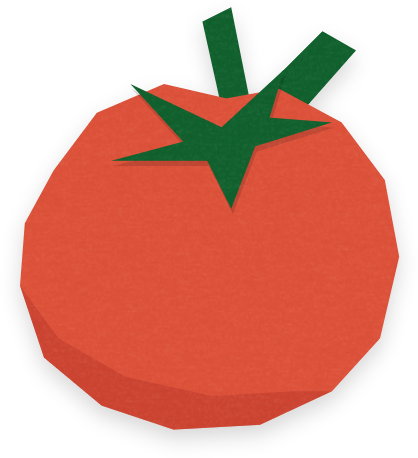
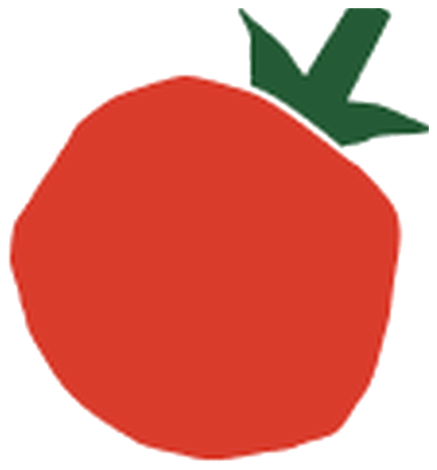
feat(site): 오너 피드백 5건 반영 — OK단단체 워드마크, 히어로 점선 제거, 아이콘 토마토, 종이컷 칩, 런칭 기준 문구
- 워드마크: 브러시 이미지(amE_138r…png 삭제) 대신 OK단단체 텍스트 `.logo-text`(2rem, 푸터 2.5rem, ink).
  앱 헤더 `MainView.wordmark`(Text("Reffi").reffiType(.display))와 같은 처리. resources 14→13장
- 히어로: 무더기 아래 점선 `.counter-line`(마크업·CSS) 제거
- 토마토: 빌드 27 글리프(별 꽃받침·줄기 2개, 오너 "이상해")를 앱 아이콘 reffi-icon-1024의 토마토로 교체.
  흰 종이 배경에서 최소 채널 기반 알파 + 언믹싱으로 분리, 437×470 투명 PNG(파일명 9zmerpH2… 유지)
- 칩(.tab): 점선 테두리·4px 라운드 → 버튼과 같은 종이컷 8각(--cut 9px, --j 1px). 외곽선 칩은
  요소=테두리 잉크, ::before(inset 1px, cut-0.6px)=종이 채움. 짝수 칩은 seed-b 지터. 색 칩(Fresh/Soon/Urgent)은
  단색 8각 + 안쪽 흰 헤어라인. 원래 CSS 테두리는 clip-path에 잘려 이 2층 구조가 필요함
- 문구: 런칭 기준. "An iPhone beta is in development." → "Free on the App Store for iPhone.",
  주 CTA 2곳 "Download on the App Store"(data-store-link, href는 URL 확정 전 자리표시자 #),
  "See how Reffi works"는 보조 링크(.link-secondary), "Public beta link coming soon." 삭제,
  FAQ Is it free?/Do I need an account? 런칭·계정 없음 기준으로 수정
- README: 구성(13장·텍스트 워드마크·아이콘 토마토 출처)과 문구 규칙(베타 금지, App Store URL 교체 지점) 갱신
- 인라인 스크립트 무변경으로 CSP 해시 동일

diff --git a/site/index.html b/site/index.html
@@ -78,7 +78,16 @@
             transition: opacity 0.2s ease, transform 0.2s ease;
         }
 
-        .beta-status { flex-basis: 100%; margin: 0; font-size: .95rem; }
+        .link-secondary {
+            align-self: center;
+            font-weight: 500;
+            color: var(--c-cocoa);
+            text-decoration: underline;
+            text-decoration-style: dashed;
+            text-decoration-color: rgba(37,33,27,0.4);
+            text-underline-offset: 5px;
+        }
+        .link-secondary:hover { text-decoration-color: var(--c-cocoa); }
         a:focus-visible { outline: 3px solid var(--c-blue); outline-offset: 5px; }
 
         /* Typography */
@@ -353,7 +362,9 @@
             .app-motion img { animation: none; } 
         }
 
-        /* Tabs & Chips */
+        /* Tabs & Chips — the same paper-cut octagon as the buttons (§13.1), scaled to chip height.
+           Outline chips: the element itself is the edge ink and ::before is the paper fill inset 1px,
+           so the hairline follows the cut corners (a CSS border would be clipped away). */
         .tabs {
             display: flex;
             gap: 0.5rem;
@@ -362,19 +373,91 @@
         }
 
         .tab {
-            background-color: var(--c-cream);
-            border: 1px dashed rgba(37,33,27,0.3);
-            padding: 0.25rem 0.875rem;
-            border-radius: 4px;
+            --cut: 9px;
+            --j: 1px;
+            --edge: rgba(37,33,27,0.35);
+            --fill: var(--c-cream);
+            position: relative;
+            isolation: isolate;
+            background-color: var(--edge);
+            border: 0;
+            border-radius: 0;
+            box-shadow: none;
+            padding: 0.3rem 0.9rem;
             font-size: 0.85rem;
             font-weight: 500;
             color: var(--c-cocoa);
-            box-shadow: 0 2px 4px rgba(37,33,27,0.05);
+            clip-path: polygon(
+                calc(var(--cut) + 0.6 * var(--j)) 0,
+                calc(100% - var(--cut) - 0.5 * var(--j)) calc(0.5 * var(--j)),
+                100% calc(var(--cut) - 0.6 * var(--j)),
+                calc(100% - 0.4 * var(--j)) calc(100% - var(--cut) + 0.4 * var(--j)),
+                calc(100% - var(--cut) + 0.5 * var(--j)) calc(100% - 0.5 * var(--j)),
+                calc(var(--cut) - 0.6 * var(--j)) 100%,
+                calc(0.4 * var(--j)) calc(100% - var(--cut) - 0.5 * var(--j)),
+                0 calc(var(--cut) + 0.7 * var(--j))
+            );
         }
 
-        .tab-fresh { background-color: var(--c-sage); border-color: transparent; }
-        .tab-soon { background-color: var(--c-amber); border-color: transparent; }
-        .tab-urgent { background-color: var(--c-terracotta); border-color: transparent; }
+        .tab::before {
+            content: "";
+            position: absolute;
+            inset: 1px;
+            z-index: -1;
+            --cut-in: calc(var(--cut) - 0.6px);
+            background-color: var(--fill);
+            clip-path: polygon(
+                calc(var(--cut-in) + 0.6 * var(--j)) 0,
+                calc(100% - var(--cut-in) - 0.5 * var(--j)) calc(0.5 * var(--j)),
+                100% calc(var(--cut-in) - 0.6 * var(--j)),
+                calc(100% - 0.4 * var(--j)) calc(100% - var(--cut-in) + 0.4 * var(--j)),
+                calc(100% - var(--cut-in) + 0.5 * var(--j)) calc(100% - 0.5 * var(--j)),
+                calc(var(--cut-in) - 0.6 * var(--j)) 100%,
+                calc(0.4 * var(--j)) calc(100% - var(--cut-in) - 0.5 * var(--j)),
+                0 calc(var(--cut-in) + 0.7 * var(--j))
+            );
+        }
+
+        /* every second chip uses the shifted jitter table so neighbours are not identical cut-outs */
+        .tabs .tab:nth-child(2n) {
+            clip-path: polygon(
+                calc(var(--cut) - 0.5 * var(--j)) calc(0.5 * var(--j)),
+                calc(100% - var(--cut) + 0.6 * var(--j)) 0,
+                calc(100% - 0.4 * var(--j)) calc(var(--cut) + 0.4 * var(--j)),
+                100% calc(100% - var(--cut) - 0.6 * var(--j)),
+                calc(100% - var(--cut) - 0.6 * var(--j)) 100%,
+                calc(var(--cut) + 0.4 * var(--j)) calc(100% - 0.5 * var(--j)),
+                0 calc(100% - var(--cut) + 0.6 * var(--j)),
+                calc(0.5 * var(--j)) calc(var(--cut) - 0.4 * var(--j))
+            );
+        }
+
+        .tabs .tab:nth-child(2n)::before {
+            clip-path: polygon(
+                calc(var(--cut-in) - 0.5 * var(--j)) calc(0.5 * var(--j)),
+                calc(100% - var(--cut-in) + 0.6 * var(--j)) 0,
+                calc(100% - 0.4 * var(--j)) calc(var(--cut-in) + 0.4 * var(--j)),
+                100% calc(100% - var(--cut-in) - 0.6 * var(--j)),
+                calc(100% - var(--cut-in) - 0.6 * var(--j)) 100%,
+                calc(var(--cut-in) + 0.4 * var(--j)) calc(100% - 0.5 * var(--j)),
+                0 calc(100% - var(--cut-in) + 0.6 * var(--j)),
+                calc(0.5 * var(--j)) calc(var(--cut-in) - 0.4 * var(--j))
+            );
+        }
+
+        .tab-fresh { --edge: var(--c-sage); --fill: var(--c-sage); }
+        .tab-soon { --edge: var(--c-amber); --fill: var(--c-amber); }
+        .tab-urgent { --edge: var(--c-terracotta); --fill: var(--c-terracotta); }
+
+        /* filled chips get the same inner white hairline as filled buttons (§13.1 paperEdgeOnFill) */
+        .tab-fresh::after, .tab-soon::after, .tab-urgent::after {
+            content: "";
+            position: absolute;
+            inset: 0;
+            clip-path: inherit;
+            box-shadow: inset 0 0 0 1px rgba(255, 255, 255, 0.35);
+            pointer-events: none;
+        }
 
         /* Decorative Background Ingredients */
         .bg-deco {
@@ -457,10 +540,15 @@
             width: 100%;
         }
 
-        .logo-img {
-            height: 36px;
-            width: auto;
-            object-fit: contain;
+        /* Wordmark is live text in OK단단체, like the app header (MainView.wordmark: .display, ink). */
+        .logo-text {
+            font-family: var(--font-title);
+            font-weight: 400;
+            font-size: 2rem;
+            line-height: 1;
+            letter-spacing: -0.02em;
+            color: var(--c-cocoa);
+            display: inline-block;
         }
 
         .nav {
@@ -561,15 +649,6 @@
             width: 100%;
             height: 100%;
             opacity: 1;
-        }
-
-        .counter-line {
-            position: absolute;
-            bottom: 26px;
-            left: 2rem;
-            right: 2rem;
-            height: 1px;
-            border-top: 2px dashed rgba(37, 33, 27, 0.1);
         }
 
         /* Pieces are positioned by the physics script (translate + rotate from the piece centre). */
@@ -811,8 +890,9 @@
             position: relative;
         }
 
-        .footer .logo-img {
-            height: 50px;
+        .footer .logo-text {
+            font-size: 2.5rem;
+            display: block;
             margin-bottom: 1rem;
         }
 
@@ -842,7 +922,7 @@
     <header class="header">
         <div class="container">
             <a href="#top" class="logo-link" aria-label="Reffi Home">
-                <img src="resources/amE_138rZ2C58vVnuHm4PX.png" alt="Reffi Logo" class="logo-img">
+                <span class="logo-text">Reffi</span>
             </a>
             <nav class="nav">
                 <div class="nav-links">
@@ -862,18 +942,17 @@
                     <div class="hero-content">
                         <span class="eyebrow">IPHONE APP FOR YOUR FRIDGE</span>
                         <h1 class="hero-title">Eat it today,<br>waste nothing.</h1>
-                        <p class="subline">An iPhone beta is in development.</p>
+                        <p class="subline">Free on the App Store for iPhone.</p>
                         <p>Reffi turns your grocery receipt into a fridge that counts down. When something is about to turn, it hands you recipe tickets that use it first.</p>
                         <div class="hero-actions">
-                            <a href="#how-it-works" class="btn-primary">See how Reffi works</a>
-                            <p class="beta-status">Public beta link coming soon.</p>
+                            <a href="#" class="btn-primary" data-store-link>Download on the App Store</a>
+                            <a href="#how-it-works" class="link-secondary">See how Reffi works</a>
                         </div>
                     </div>
                     
                     <div class="hero-visual">
                         <div class="hero-stage" id="hero-stage">
                             <div class="pile-wrapper">
-                                <div class="counter-line"></div>
                                 <img src="resources/9zmerpH2zUScmto_Orokgj.png" class="food-piece" data-w="156" alt="Tomato">
                                 <img src="resources/aDPBmEky3-u3BYiUjT__Q6.png" class="food-piece" data-w="150" alt="Mushroom">
                                 <img src="resources/8I3fBUc04FwcLg-5J8HOHp.png" class="food-piece" data-w="148" alt="Broccoli">
@@ -1117,11 +1196,11 @@
                     </div>
                     <div class="faq-item">
                         <h3 class="faq-q">Is it free?</h3>
-                        <p>The beta is free. The public TestFlight link will be added here when it is available.</p>
+                        <p>Yes. Reffi is free on the App Store, and there is nothing to sign up for.</p>
                     </div>
                     <div class="faq-item">
                         <h3 class="faq-q">Do I need an account?</h3>
-                        <p>No, guest mode works without one.</p>
+                        <p>No. Reffi works without an account, and your fridge stays on your phone.</p>
                     </div>
                     <div class="faq-item">
                         <h3 class="faq-q">Where do the recipes come from?</h3>
@@ -1138,11 +1217,11 @@
                 <div class="receipt-wrapper">
                     <div class="receipt-inner zigzag-edges text-center">
                         <h2 class="cta-title">Start with the fridge you already have.</h2>
-                        <p>See how Reffi helps you cook what is about to turn.</p>
+                        <p>Download Reffi and cook what is about to turn, first.</p>
                         
                         <div class="cta-actions">
-                            <a href="#how-it-works" class="btn-primary seed-b">See how Reffi works</a>
-                            <p class="beta-status">Public beta link coming soon.</p>
+                            <a href="#" class="btn-primary seed-b" data-store-link>Download on the App Store</a>
+                            <a href="#how-it-works" class="link-secondary">See how Reffi works</a>
                         </div>
                     </div>
                 </div>
@@ -1154,7 +1233,7 @@
     <footer class="footer">
         <div class="container">
             <img src="resources/ar_c5-vEmw1f1ra_0GbOAC.png" class="bg-deco deco-inner right" style="top: 0; transform: rotate(-5deg);" alt="" aria-hidden="true">
-            <img src="resources/amE_138rZ2C58vVnuHm4PX.png" alt="Reffi Logo" class="logo-img" style="margin: 0 auto 1rem;">
+            <span class="logo-text">Reffi</span>
             <p class="subline" style="margin-bottom: 0;">Eat it today, waste nothing.</p>
             
             <div class="footer-links">

diff --git a/site/README.md b/site/README.md
@@ -1,13 +1,13 @@
 # Reffi 소개 사이트 (정적)
 
-Google Labs Pomelli로 만든 앱 소개 페이지의 정적 내보내기입니다. `index.html` 한 장과 `resources/` 이미지 14장, 루트의 `favicon.ico`(16·32·48, iOS식 둥근 모서리)와 `apple-touch-icon.png`(180, 정사각)로 구성되며, 두 아이콘은 앱의 `AppIcon.appiconset/reffi-icon-1024.png`에서 생성했습니다. 외부 의존은 폰트 서버 두 곳(Google Fonts의 Google Sans Flex, jsDelivr의 OK단단체)만 있습니다. 자세한 내용은 아래 "제3자 접속처와 라이선스"를 참고합니다. 스크립트는 히어로 낙하 애니메이션용 인라인 코드 하나뿐이고, 추적·분석 코드는 없습니다.
+Google Labs Pomelli로 만든 앱 소개 페이지의 정적 내보내기입니다. `index.html` 한 장과 `resources/` 이미지 13장, 루트의 `favicon.ico`(16·32·48, iOS식 둥근 모서리)와 `apple-touch-icon.png`(180, 정사각)로 구성되며, 두 아이콘은 앱의 `AppIcon.appiconset/reffi-icon-1024.png`에서 생성했습니다. 외부 의존은 폰트 서버 두 곳(Google Fonts의 Google Sans Flex, jsDelivr의 OK단단체)만 있습니다. 자세한 내용은 아래 "제3자 접속처와 라이선스"를 참고합니다. 스크립트는 히어로 낙하 애니메이션용 인라인 코드 하나뿐이고, 추적·분석 코드는 없습니다.
 
 - 원본 편집: Pomelli 웹사이트 에디터(버전 V15 기준). Pomelli에서 수정하면 이 폴더를 다시 내보내야 합니다.
-- 이미지: `resources/<id>.png`는 앱에서 뽑은 재료 글리프 8종(투명 PNG, 여백 트림, 긴 변 480px 이하), 워드마크, 화면 스프라이트 시트 5장(4×3, 12프레임, 1208×1968)입니다. 현재 아트워크는 main `acfbff1`(빌드 27) 기준입니다. 글리프는 `PaperSilhouette`를 `ImageRenderer`로 투명 배경 렌더한 것이고, 시트는 시뮬레이터 녹화 프레임을 격자로 합친 것입니다. 앱 일러스트가 바뀌면 같은 파일명으로 덮어쓰기만 하면 되고 `index.html`은 바꾸지 않습니다. 시트는 `.app-motion` CSS가 프레임 단위로 재생합니다.
+- 이미지: `resources/<id>.png`는 앱에서 뽑은 재료 글리프 8종(투명 PNG, 여백 트림, 긴 변 480px 이하)과 화면 스프라이트 시트 5장(4×3, 12프레임, 1208×1968)입니다. 워드마크는 이미지가 아니라 OK단단체 텍스트(`.logo-text`)로, 앱 헤더(`MainView.wordmark`)와 같습니다. 히어로 토마토(`9zmerpH2…`)만은 앱 글리프 대신 앱 아이콘 `reffi-icon-1024.png`의 토마토를 흰 종이 배경에서 분리한 것입니다(오너가 별 모양 꽃받침의 글리프 토마토를 이상하다고 봄, 2026-09-10). 현재 아트워크는 main `acfbff1`(빌드 27) 기준입니다. 글리프는 `PaperSilhouette`를 `ImageRenderer`로 투명 배경 렌더한 것이고, 시트는 시뮬레이터 녹화 프레임을 격자로 합친 것입니다. 앱 일러스트가 바뀌면 같은 파일명으로 덮어쓰기만 하면 되고 `index.html`은 바꾸지 않습니다. 시트는 `.app-motion` CSS가 프레임 단위로 재생합니다.
 - 배포: 정적 호스팅 어디서나 동작합니다. Vercel 프로젝트 `reffi-site`(heejae92)에서 https://reffi-site.vercel.app 으로 서빙 중이며, `vercel deploy --target preview`(미리보기) 또는 `--prod`(공개)로 올립니다.
-- 베타: 공개 TestFlight 링크가 확인되기 전에는 참여 버튼 대신 "See how Reffi works" 소개 링크와 준비 중 안내를 표시합니다. 공개 링크가 정해지면 두 CTA와 안내 문구를 함께 갱신합니다.
+- 문구: 2026-09-10 오너 지시로 **실제 런칭 기준**으로 씁니다. 베타·TestFlight 언급은 쓰지 않습니다. 주 CTA "Download on the App Store" 두 개(`data-store-link`)의 `href`는 App Store URL이 정해지기 전까지 자리표시자 `#`이며, URL이 나오면 두 곳을 함께 교체합니다. "See how Reffi works"는 보조 링크로 남습니다.
 - 개인정보: `privacy.html`은 앱의 한국어와 영어 방침을 내보낸 페이지입니다. `python3 scripts/export-site-privacy.py --check`로 정본과 일치를 확인합니다. Vercel 배포는 Heejae92가 담당합니다.
-- 재내보내기 시 위의 베타 안내와 Privacy 링크를 보존하고, 인라인 스크립트가 바뀌면 `vercel.json`의 CSP 해시도 다시 계산합니다.
+- 재내보내기 시 위의 런칭 문구·CTA와 Privacy 링크를 보존하고, 인라인 스크립트가 바뀌면 `vercel.json`의 CSP 해시도 다시 계산합니다.
 
 ## 제3자 접속처와 라이선스
 - 이 페이지를 열면 방문자 브라우저가 두 곳의 폰트 서버에 접속합니다: Google Fonts(`fonts.googleapis.com`, `fonts.gstatic.com` — Google Sans Flex)와 jsDelivr(`cdn.jsdelivr.net` — OK단단체 `OkDanDan-Bold.woff2`). 추적 스크립트나 분석 도구는 없습니다.
